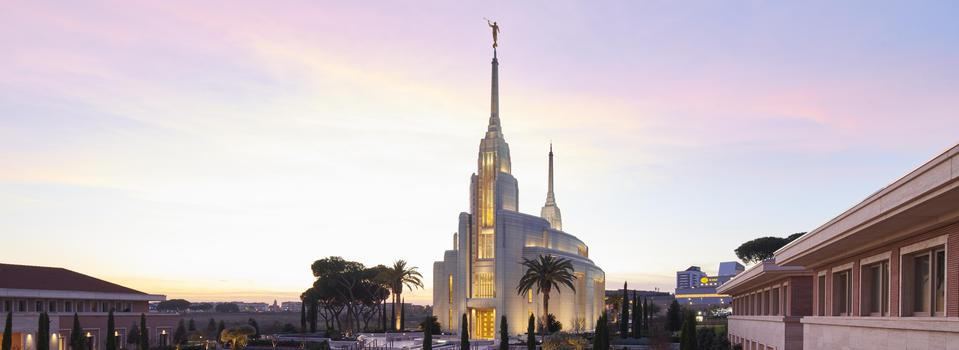
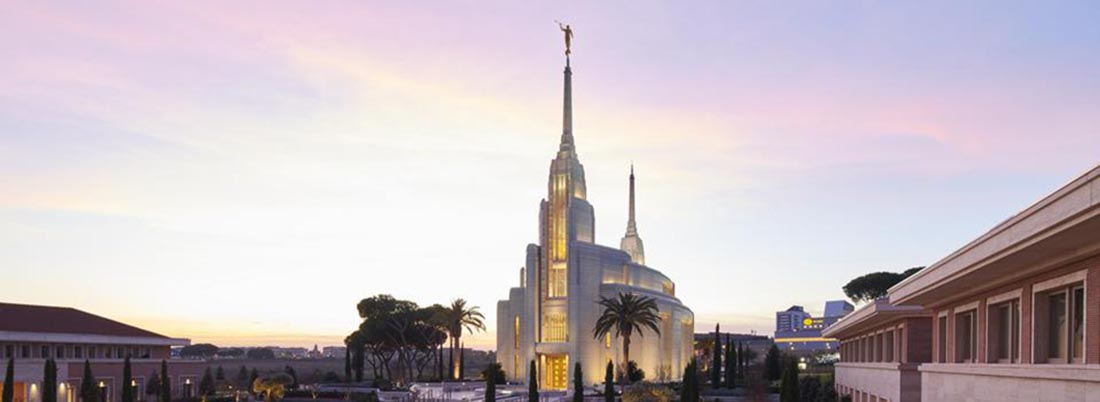
colors aesthetics

diff --git a/FINAL/css/small.css b/FINAL/css/small.css
@@ -6,26 +6,26 @@ html {-webkit-text-size-adjust: 100%; -ms-text-size-adjust: 100%;}
 
 
 /*----------- BODY --------------*/
-body {
+body {color: 
     font-size: 16px;
-    font-family: Verdana, sans-serif;
+    font-family: 'Roboto Condensed', sans-serif;
 }
 
 
 /*----------- HEADER --------------*/
 header {
     padding: .5rem 2%;
-    background-color: #141159;
+    background-color: #2e9cca;
+    height: 200px;
 }
-header img{float: left; margin-right: 10px;width: 50px;}
-header h1 {margin: 0; font-size: 1.3rem;color: #ffffff}
-header h2 {margin: 0; font-weight: normal; font-size: 1rem; color: #ffffff; }
+header h1 {margin: 0; font-weight: bold; font-size: 2rem; color: #ffffff; }
+header h2 {margin: 0; font-weight: bold; font-size: 1rem; color: #222543; }
 
 /*----------- NAVIGATION --------------*/
 nav {
-    background-color: #000000;
+    background-color: #ffffff;
 }
-nav ul {
+nav ul {s
     list-style-type: none;
     padding: 0;
     margin: 0;
@@ -35,19 +35,21 @@ nav li {list-style-type: none;}
 nav a {
    
     display: block;
-    color: #eee;
+    color: #222543;
     padding: .8rem 0;
     text-decoration: none;
     text-align: center;
+    font-size: 18px;
+    font-weight: bolder;
 }
 
 nav ul li a:hover {
-    background-color: #aaa;
-    color: #333;
+    background-color: #a8aab7;
+    color: #2e9cca;
 }
 nav li.active {
-    background-color: #6f6869;
-    color: #fff;
+    background-color: #a8aab7;
+    color: #2a658a;
 }
 /*----------- MAIN --------------*/
 
@@ -57,18 +59,34 @@ main {
     min-height: 10rem;
 }
 
-main h1 {color: #141159;} 
 
-  
-.rome figure {
+main figure.pano { 
+    display: block;
     width: 100%;
-    margin: 0;
+    height: auto; 
+    margin: 0;  
+}   
+main figure.pano img {width: 100%;}  
+
+/*overlay and text*/
+
+.overlay h1 {
+    font-family: 'Great Vibes', cursive;
+    margin: 0; 
+    font-size: 4rem; 
+    text-shadow: 1px 1px #141159;
+    color: #ffffff
 }
-.rome figure img {width: 100%;} 
-
-main figcaption {text-align: center;font-size: .8rem; padding: 1%} 
-
-
+.overlay {
+    position: relative;
+    width: 50%;
+}
+.overlay {width: 100%;}
+.overtext {
+    top: 260px; 
+    left: 550px;
+    position: absolute;
+    }
 
 
 /*----------- FOOTER --------------*/

diff --git a/FINAL/index.html b/FINAL/index.html
@@ -4,7 +4,7 @@
 <meta charset="utf-8">
 <meta name="Michelle ALley" content="Temple">
 <title>Background: Temple Site</title>
-
+<link href="https://fonts.googleapis.com/css?family=Great+Vibes|Roboto+Condensed:400,400i,700&display=swap" rel="stylesheet"> 
 <meta name="viewport" content="width=device-width, initial-scale=1, maximum-scale=1">
 
 <!--STYLE SHEETS-->
@@ -19,27 +19,37 @@
 
 <body>
 <header>
-  <h1>Temple Site</h1>
+  <h2>Temple Site</h2>
   <h2>Oklahoma City Temple</h2>
 </header>
 
 <nav class="clearfix">  
+        <nav class="clearfix">
+                <div class="toggle">
+                  <button onclick="toggleMenu()">&#9776;</button>
+                </div>
 <ul>
-  <li><a href="FINAL/index.html">HOME</a></li>
+  <li class="active"><a href="FINAL/index.html">HOME</a></li>
   <li><a href="FINAL/reservations">RESERVATIONS</a></li>
-  <li class="active"><a href="FINAL/locations">LOCATIONS</a></li>
+  <li><a href="FINAL/locations">LOCATIONS</a></li>
   <li><a href="FINAL/services.html">SERVICES</a></li>
-  <li><a href="FINAL/aboutus.html">ABOUT US</a></li>
+  <li><a href="FINAL/aboutus.html">HISTORY</a></li>
+  <li><a href="FINAL/contactus.html">CONTACT US</a></li>
+
 
 </ul>
 </nav>
 
 <main class="clearfix"> 
+        <div class="overlay">
+            <section class="overtext">
+            <h1>Reserve your room today...</h1>
+        </section>  
+    <figure class="pano">
+        <img src="images/washingtondc.jpg" alt="panoramic temple">
+        </figure>
 
-    <figure class="rome">
-        <img src="images/rome1.jpg" alt="rometemple">
-        <figcaption>Rome Ital Temple</figcaption>
-    </figure>
+    </div>
     
     <h1>Background</h1>
 

diff --git a/FINAL/css/medium.css b/FINAL/css/medium.css
@@ -13,20 +13,23 @@ header h1 {font-size: 1.5rem;}
 
 /*----------- NAVIGATION --------------*/
 
-nav li {float: left; width: 20%}
+nav button (display: none;)
+nav ul.hide {display: block}
+nav ul li {float: left;}
+nav ul {margin-left: 2%;}
 
+
+nav ul li a{
+    border: none;
+    padding: .8rem 1rem;}
+nav ul.hide {display: block}
+.toggle {display: none;}
 
 /*----------- MAIN --------------*/
 
-main figure {
-    float: right;
-    width: 48%;
-    margin-left: 2%;
-    padding-bottom: .5rem;
-}
+
 
 div.news {
-
 clear: both;
 column-count: 2;
 column-rule: 1px solid #ddd;

diff --git a/FINAL/css/large.css b/FINAL/css/large.css
@@ -13,9 +13,18 @@ nav, header, footer, main {max-width: 75rem; margin: auto;}
 
 /*----------- NAVIGATION --------------*/
  
-nav ul {padding-left: 2%;}
-nav li {width: auto;}
-nav a {padding: .5rem 1rem;}
+nav button (display: none;)
+nav ul.hide {display: block}
+nav ul li {float: left;}
+nav ul {margin-left: 2%;}
+
+
+nav ul li a{
+    border: none;
+    padding: .8rem 1rem;}
+nav ul.hide {display: block}
+.toggle {display: none;}
+
  
     
 
